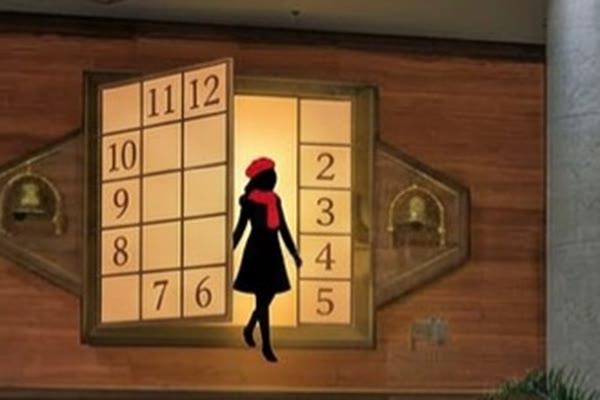
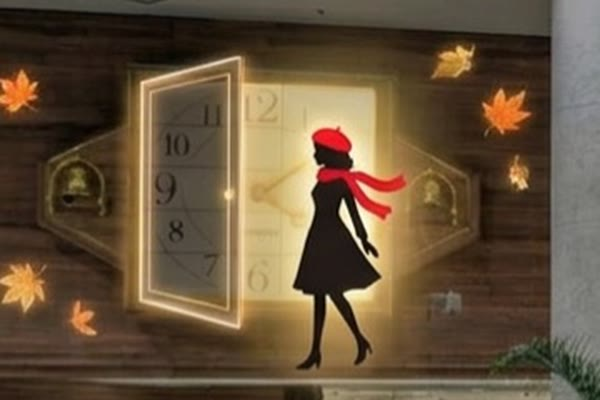
Projected-light door frame; all 14 concept deck pages
Option 01a: the door is now light over the real clock, which stays
faintly visible. The concept section gets a strip of all 14 deck
pages, and the viewer steps through the whole deck.

diff --git a/ja.html b/ja.html
@@ -399,6 +399,11 @@ footer .wrap{display:flex;flex-wrap:wrap;gap:12px 28px;justify-content:space-bet
 .deckpeek-btn{padding:0;border:1px solid var(--line);border-radius:6px;overflow:hidden;background:var(--hall);cursor:zoom-in;display:block;transition:border-color .15s,transform .15s}
 .deckpeek-btn:hover{border-color:var(--sogo);transform:translateY(-1px)}
 .deckpeek-btn img{display:block;width:100%;aspect-ratio:16/9;object-fit:cover}
+.deckall{list-style:none;margin:0;padding:0;display:grid;grid-template-columns:repeat(7,minmax(0,1fr));gap:12px}
+.deckall li{display:grid;gap:6px;align-content:start;font-size:12px;line-height:1.4;color:var(--fg-2)}
+.deckall b{font-family:var(--f-mono);font-weight:500;color:var(--sogo)}
+@media (max-width:1000px){.deckall{grid-template-columns:repeat(4,minmax(0,1fr))}}
+@media (max-width:560px){.deckall{grid-template-columns:repeat(2,minmax(0,1fr))}}
 .deckview{padding:0;border:0;border-radius:10px;background:var(--hall-2);color:var(--light);width:min(980px,calc(100vw - 32px));max-height:calc(100vh - 32px);overflow:auto}
 section img,.hero-photo img{cursor:zoom-in}
 button img,a img,.compare img,#photo img,dialog img{cursor:inherit}
@@ -708,7 +713,7 @@ html[lang="ja"] .concept-quote{font-family:var(--f-jp);font-weight:700}
         </dl>
       </div>
       <div class="opt-media" id="opt01-media">
-        <figure><img src="img/gen-o1-door.jpg" alt="Concept frame: the left three columns of the clock face swing open as one tall door, carrying the numbers 6 to 12, and a black silhouette of a woman in a red beret and red scarf stands in the warm doorway; both brass bells stay in place, autumn leaves along the band" loading="lazy"><figcaption>コンセプト · 正時、時計の扉が開く</figcaption></figure>
+        <figure><img src="img/gen-o1-door.jpg" alt="Concept frame: a door of projected light swings open over the left of the real clock face, with the real numbers and hands still faintly visible through the warm glow, and a black silhouette of a woman in a red beret and red scarf steps out; both brass bells stay in place" loading="lazy"><figcaption>コンセプト · 正時、時計の扉が開く</figcaption></figure>
         <figure><img src="img/gen-o1-gust.jpg" alt="Concept frame: she sits on the clock's edge in her red scarf while, along the band, a man in a mustard scarf fights his inside-out umbrella in a gust of autumn leaves" loading="lazy"><figcaption>コンセプト · 突風。彼は天気と格闘し、彼女は時計の縁で待つ</figcaption></figure>
         <figure><img src="img/gen-o1-together.jpg" alt="Concept frame: two solid black silhouettes, one in a red scarf and one in a mustard scarf, embrace inside the glowing clock face while red, gold and white paper leaves scatter across the clock wall and the band" loading="lazy"><figcaption>コンセプト · 二人で。時計の中で抱き合い、壁いっぱいに秋の紙吹雪</figcaption></figure>
         <figure><img src="img/realtime-clock.jpg" alt="Real Time: a person seen inside a large clock face, keeping time by hand" loading="lazy"><figcaption>参考：Real Time。時計の中で暮らす人</figcaption></figure>
@@ -793,7 +798,7 @@ html[lang="ja"] .concept-quote{font-family:var(--f-jp);font-weight:700}
       </div>
       <h4 class="cd-sub">扉が開いて、再会するまで <span>From the door opening to the reunion</span></h4>
       <ol class="sb">
-        <li><img src="img/sb-o1-1.jpg" data-full="img/gen-o1-door.jpg" alt="Storyboard 1: the left block of the clock face opens as a door and her silhouette, in a red beret and scarf, stands in the doorway" loading="lazy"><span class="sb-n">1</span><b>時計の扉が開く</b><span>正時、女性のシルエットが現れ、針を見上げて待つ。コートやスカーフなど1〜2点だけ色を残す。</span></li>
+        <li><img src="img/sb-o1-1.jpg" data-full="img/gen-o1-door.jpg" alt="Storyboard 1: a door of projected light opens over the real clock face and her silhouette, in a red beret and scarf, steps out" loading="lazy"><span class="sb-n">1</span><b>時計の扉が開く</b><span>正時、女性のシルエットが現れ、針を見上げて待つ。コートやスカーフなど1〜2点だけ色を残す。</span></li>
         <li><img src="img/sb-o1-2.jpg" data-full="img/gen-o1-s2.jpg" alt="Storyboard 2: a gust of red and gold leaves blows along the band and his silhouette in a mustard scarf tumbles head over heels in the wind" loading="lazy"><span class="sb-n">2</span><b>秋風と紅葉</b><span>強い風に紅葉がロビー中を舞い、男性が風に転がされて登場。</span></li>
         <li><img src="img/sb-o1-3.jpg" data-full="img/gen-o1-s3.jpg" alt="Storyboard 3: his silhouette stands up, dusts off his coat and stares at his wristwatch, an exclamation mark above his head" loading="lazy"><span class="sb-n">3</span><b>遅刻に気づく</b><span>ほこりを払い、時計を見て、逆風の中を急ぐ。</span></li>
         <li><img src="img/sb-o1-4.jpg" data-full="img/gen-o1-gust.jpg" alt="Storyboard 4: his silhouette in a mustard scarf fights an inside-out umbrella under rain lines and a small lightning bolt" loading="lazy"><span class="sb-n">4</span><b>雨と雷</b><span>天気はさらに荒れ、お決まりの傘との格闘。</span></li>
@@ -825,10 +830,10 @@ html[lang="ja"] .concept-quote{font-family:var(--f-jp);font-weight:700}
         <p class="concept-belief">大事な人にとって誇れる自分になるために、誰よりも、自分で自分が誇らしいと思えるために。</p>
         <p class="concept-told">表現は「時候の挨拶」。手書きの季節の手紙が時計から旅立ち、誰かのもとへ届きます。</p>
         <div class="deckpeek">
-          <p class="deckpeek-cap">「誇れる、私。」をもっと詳しく：コンセプト案の該当ページ（2枚）。</p>
+          <p class="deckpeek-cap">「誇れる、私。」をもっと詳しく：コンセプト案の8・9ページ。クリックで拡大し、全14ページを順に見られます。</p>
           <div class="deckpeek-row">
-            <button type="button" class="deckpeek-btn" data-deck="0" aria-label="8ページを拡大：案02 コンセプト"><img src="img/deck-o2-08.png" alt="Deck page 8: 案02 コンセプト, I am proud to be who I am" loading="lazy"></button>
-            <button type="button" class="deckpeek-btn" data-deck="1" aria-label="9ページを拡大：コンセプトに込める想い"><img src="img/deck-o2-09.png" alt="Deck page 9: 誇れる、私。 with three points and the closing line" loading="lazy"></button>
+            <button type="button" class="deckpeek-btn" data-deck="7" aria-label="8ページを拡大：案02 コンセプト"><img src="img/deck-08.png" alt="Deck page 8: 案02 コンセプト, I am proud to be who I am" loading="lazy"></button>
+            <button type="button" class="deckpeek-btn" data-deck="8" aria-label="9ページを拡大：コンセプトに込める想い"><img src="img/deck-09.png" alt="Deck page 9: 誇れる、私。 with three points and the closing line" loading="lazy"></button>
           </div>
         </div>
         <a class="concept-link" href="#opt-02">ストーリーとフレームを見る</a>
@@ -857,6 +862,23 @@ html[lang="ja"] .concept-quote{font-family:var(--f-jp);font-weight:700}
       <li><b>現地の夜間テスト</b><span>大理石の上での色とコントラストを確認。</span></li>
       <li><b>ムードボード・スタイルフレーム</b><span>選んだコンセプトを目に見える形に。</span></li>
       <li><b>制作手法・予算</b><span>手法、AIの活用、予算、技術面はコンセプト決定後に。</span></li>
+    </ol>
+    <h3 class="cd-h">コンセプト案 全14ページ</h3>
+    <ol class="deckall">
+        <li><button type="button" class="deckpeek-btn" data-deck="0" aria-label="1ページを拡大"><img src="img/deck-01.png" alt="1ページ：表紙" loading="lazy"></button><span><b>01</b> 表紙</span></li>
+        <li><button type="button" class="deckpeek-btn" data-deck="1" aria-label="2ページを拡大"><img src="img/deck-02.png" alt="2ページ：出発点" loading="lazy"></button><span><b>02</b> 出発点</span></li>
+        <li><button type="button" class="deckpeek-btn" data-deck="2" aria-label="3ページを拡大"><img src="img/deck-03.png" alt="3ページ：場所と条件" loading="lazy"></button><span><b>03</b> 場所と条件</span></li>
+        <li><button type="button" class="deckpeek-btn" data-deck="3" aria-label="4ページを拡大"><img src="img/deck-04.png" alt="4ページ：足りないのは、コンセプト" loading="lazy"></button><span><b>04</b> 足りないのは、コンセプト</span></li>
+        <li><button type="button" class="deckpeek-btn" data-deck="4" aria-label="5ページを拡大"><img src="img/deck-05.png" alt="5ページ：案01 · コンセプト" loading="lazy"></button><span><b>05</b> 案01 · コンセプト</span></li>
+        <li><button type="button" class="deckpeek-btn" data-deck="5" aria-label="6ページを拡大"><img src="img/deck-06.png" alt="6ページ：案01 · ストーリー（秋編）" loading="lazy"></button><span><b>06</b> 案01 · ストーリー（秋編）</span></li>
+        <li><button type="button" class="deckpeek-btn" data-deck="6" aria-label="7ページを拡大"><img src="img/deck-07.png" alt="7ページ：案01 · 季節展開" loading="lazy"></button><span><b>07</b> 案01 · 季節展開</span></li>
+        <li><button type="button" class="deckpeek-btn" data-deck="7" aria-label="8ページを拡大"><img src="img/deck-08.png" alt="8ページ：案02 · コンセプト" loading="lazy"></button><span><b>08</b> 案02 · コンセプト</span></li>
+        <li><button type="button" class="deckpeek-btn" data-deck="8" aria-label="9ページを拡大"><img src="img/deck-09.png" alt="9ページ：案02 · コンセプトに込める想い" loading="lazy"></button><span><b>09</b> 案02 · コンセプトに込める想い</span></li>
+        <li><button type="button" class="deckpeek-btn" data-deck="9" aria-label="10ページを拡大"><img src="img/deck-10.png" alt="10ページ：案02 · 時候の挨拶" loading="lazy"></button><span><b>10</b> 案02 · 時候の挨拶</span></li>
+        <li><button type="button" class="deckpeek-btn" data-deck="10" aria-label="11ページを拡大"><img src="img/deck-11.png" alt="11ページ：案02 · ストーリー" loading="lazy"></button><span><b>11</b> 案02 · ストーリー</span></li>
+        <li><button type="button" class="deckpeek-btn" data-deck="11" aria-label="12ページを拡大"><img src="img/deck-12.png" alt="12ページ：案02 · なぜ響くのか" loading="lazy"></button><span><b>12</b> 案02 · なぜ響くのか</span></li>
+        <li><button type="button" class="deckpeek-btn" data-deck="12" aria-label="13ページを拡大"><img src="img/deck-13.png" alt="13ページ：参考 · ほかに検討した3つの方向性" loading="lazy"></button><span><b>13</b> 参考 · ほかに検討した3つの方向性</span></li>
+        <li><button type="button" class="deckpeek-btn" data-deck="13" aria-label="14ページを拡大"><img src="img/deck-14.png" alt="14ページ：次のステップ" loading="lazy"></button><span><b>14</b> 次のステップ</span></li>
     </ol>
     <p class="cd-src">出典：そごう横浜 ロビー時計 プロジェクションマッピング コンセプト案（Wild Tame、2026年11月 ドラフト）</p>
   </div>
@@ -932,7 +954,7 @@ html[lang="ja"] .concept-quote{font-family:var(--f-jp);font-weight:700}
 </footer>
 
 <dialog class="deckview" id="lightbox" aria-label="拡大画像">
-  <figure class="deckview-fig"><img id="lbImg" src="img/deck-o2-08.png" alt=""><figcaption id="lbCap"></figcaption></figure>
+  <figure class="deckview-fig"><img id="lbImg" src="img/deck-08.png" alt=""><figcaption id="lbCap"></figcaption></figure>
   <div class="deckview-nav">
     <button type="button" id="lbPrev">← 前へ</button>
     <span id="lbCount" class="mono">1 / 2</span>
@@ -1535,8 +1557,20 @@ setDir(dir);
   const img=document.getElementById('lbImg'), cap=document.getElementById('lbCap'), cnt=document.getElementById('lbCount');
   const prev=document.getElementById('lbPrev'), next=document.getElementById('lbNext');
   const DECK=[
-    {src:'img/deck-o2-08.png',cap:'コンセプト案 8ページ · 案02 コンセプト：I am proud to be who I am'},
-    {src:'img/deck-o2-09.png',cap:'コンセプト案 9ページ · コンセプトに込める想い：誇れる、私。'}
+    {src:'img/deck-01.png',cap:'コンセプト案 1ページ · 表紙'},
+    {src:'img/deck-02.png',cap:'コンセプト案 2ページ · 出発点：思い出は、未来になる'},
+    {src:'img/deck-03.png',cap:'コンセプト案 3ページ · 場所と条件'},
+    {src:'img/deck-04.png',cap:'コンセプト案 4ページ · 足りないのは、コンセプト'},
+    {src:'img/deck-05.png',cap:'コンセプト案 5ページ · 案01 コンセプト：出会い（一期一会）'},
+    {src:'img/deck-06.png',cap:'コンセプト案 6ページ · 案01 ストーリー（秋編）'},
+    {src:'img/deck-07.png',cap:'コンセプト案 7ページ · 案01 季節展開'},
+    {src:'img/deck-08.png',cap:'コンセプト案 8ページ · 案02 コンセプト：I am proud to be who I am'},
+    {src:'img/deck-09.png',cap:'コンセプト案 9ページ · 案02 コンセプトに込める想い：誇れる、私。'},
+    {src:'img/deck-10.png',cap:'コンセプト案 10ページ · 案02 時候の挨拶'},
+    {src:'img/deck-11.png',cap:'コンセプト案 11ページ · 案02 ストーリー'},
+    {src:'img/deck-12.png',cap:'コンセプト案 12ページ · 案02 なぜ響くのか'},
+    {src:'img/deck-13.png',cap:'コンセプト案 13ページ · 参考：ほかに検討した3つの方向性'},
+    {src:'img/deck-14.png',cap:'コンセプト案 14ページ · 次のステップ'}
   ];
   const SKIP='button,a,.compare,#photo,.sim,dialog';
   let list=[], i=0;

diff --git a/index.html b/index.html
@@ -399,6 +399,11 @@ footer .wrap{display:flex;flex-wrap:wrap;gap:12px 28px;justify-content:space-bet
 .deckpeek-btn{padding:0;border:1px solid var(--line);border-radius:6px;overflow:hidden;background:var(--hall);cursor:zoom-in;display:block;transition:border-color .15s,transform .15s}
 .deckpeek-btn:hover{border-color:var(--sogo);transform:translateY(-1px)}
 .deckpeek-btn img{display:block;width:100%;aspect-ratio:16/9;object-fit:cover}
+.deckall{list-style:none;margin:0;padding:0;display:grid;grid-template-columns:repeat(7,minmax(0,1fr));gap:12px}
+.deckall li{display:grid;gap:6px;align-content:start;font-size:12px;line-height:1.4;color:var(--fg-2)}
+.deckall b{font-family:var(--f-mono);font-weight:500;color:var(--sogo)}
+@media (max-width:1000px){.deckall{grid-template-columns:repeat(4,minmax(0,1fr))}}
+@media (max-width:560px){.deckall{grid-template-columns:repeat(2,minmax(0,1fr))}}
 .deckview{padding:0;border:0;border-radius:10px;background:var(--hall-2);color:var(--light);width:min(980px,calc(100vw - 32px));max-height:calc(100vh - 32px);overflow:auto}
 section img,.hero-photo img{cursor:zoom-in}
 button img,a img,.compare img,#photo img,dialog img{cursor:inherit}
@@ -708,7 +713,7 @@ html[lang="ja"] .concept-quote{font-family:var(--f-jp);font-weight:700}
         </dl>
       </div>
       <div class="opt-media" id="opt01-media">
-        <figure><img src="img/gen-o1-door.jpg" alt="Concept frame: the left three columns of the clock face swing open as one tall door, carrying the numbers 6 to 12, and a black silhouette of a woman in a red beret and red scarf stands in the warm doorway; both brass bells stay in place, autumn leaves along the band" loading="lazy"><figcaption>Concept frame · On the hour: the door in the clock opens</figcaption></figure>
+        <figure><img src="img/gen-o1-door.jpg" alt="Concept frame: a door of projected light swings open over the left of the real clock face, with the real numbers and hands still faintly visible through the warm glow, and a black silhouette of a woman in a red beret and red scarf steps out; both brass bells stay in place" loading="lazy"><figcaption>Concept frame · On the hour: the door in the clock opens</figcaption></figure>
         <figure><img src="img/gen-o1-gust.jpg" alt="Concept frame: she sits on the clock's edge in her red scarf while, along the band, a man in a mustard scarf fights his inside-out umbrella in a gust of autumn leaves" loading="lazy"><figcaption>Concept frame · The gust: he fights the weather, she waits on the clock’s edge</figcaption></figure>
         <figure><img src="img/gen-o1-together.jpg" alt="Concept frame: two solid black silhouettes, one in a red scarf and one in a mustard scarf, embrace inside the glowing clock face while red, gold and white paper leaves scatter across the clock wall and the band" loading="lazy"><figcaption>Concept frame · Together: they embrace in the clock as autumn confetti fills the wall</figcaption></figure>
         <figure><img src="img/realtime-clock.jpg" alt="Real Time: a person seen inside a large clock face, keeping time by hand" loading="lazy"><figcaption>Reference: Real Time, a person living inside the clock</figcaption></figure>
@@ -793,7 +798,7 @@ html[lang="ja"] .concept-quote{font-family:var(--f-jp);font-weight:700}
       </div>
       <h4 class="cd-sub">From the door opening to the reunion <span>扉が開いて、再会するまで</span></h4>
       <ol class="sb">
-        <li><img src="img/sb-o1-1.jpg" data-full="img/gen-o1-door.jpg" alt="Storyboard 1: the left block of the clock face opens as a door and her silhouette, in a red beret and scarf, stands in the doorway" loading="lazy"><span class="sb-n">1</span><b>The clock door opens</b><span>On the hour, a woman’s silhouette appears and looks up at the hands, waiting. Only one or two items, a coat or a scarf, keep their colour.</span></li>
+        <li><img src="img/sb-o1-1.jpg" data-full="img/gen-o1-door.jpg" alt="Storyboard 1: a door of projected light opens over the real clock face and her silhouette, in a red beret and scarf, steps out" loading="lazy"><span class="sb-n">1</span><b>The clock door opens</b><span>On the hour, a woman’s silhouette appears and looks up at the hands, waiting. Only one or two items, a coat or a scarf, keep their colour.</span></li>
         <li><img src="img/sb-o1-2.jpg" data-full="img/gen-o1-s2.jpg" alt="Storyboard 2: a gust of red and gold leaves blows along the band and his silhouette in a mustard scarf tumbles head over heels in the wind" loading="lazy"><span class="sb-n">2</span><b>Autumn wind and red leaves</b><span>A strong wind sends red leaves across the whole lobby, and a man tumbles in, rolled along by the gust.</span></li>
         <li><img src="img/sb-o1-3.jpg" data-full="img/gen-o1-s3.jpg" alt="Storyboard 3: his silhouette stands up, dusts off his coat and stares at his wristwatch, an exclamation mark above his head" loading="lazy"><span class="sb-n">3</span><b>He realises he’s late</b><span>He dusts himself off, checks the clock and hurries on into the headwind.</span></li>
         <li><img src="img/sb-o1-4.jpg" data-full="img/gen-o1-gust.jpg" alt="Storyboard 4: his silhouette in a mustard scarf fights an inside-out umbrella under rain lines and a small lightning bolt" loading="lazy"><span class="sb-n">4</span><b>Rain and lightning</b><span>The weather turns worse, and the inevitable fight with his umbrella begins.</span></li>
@@ -825,10 +830,10 @@ html[lang="ja"] .concept-quote{font-family:var(--f-jp);font-weight:700}
         <p class="concept-belief">To be someone the people who matter to you can be proud of, and, more than anyone, to feel proud of yourself.</p>
         <p class="concept-told">Told through 時候の挨拶: a handwritten seasonal letter that leaves the clock to reach someone.</p>
         <div class="deckpeek">
-          <p class="deckpeek-cap">More on “proud to be me”: the two pages from the concept deck.</p>
+          <p class="deckpeek-cap">More on “proud to be me”: pages 8 and 9 of the concept deck. Click to enlarge, then step through all 14 pages.</p>
           <div class="deckpeek-row">
-            <button type="button" class="deckpeek-btn" data-deck="0" aria-label="Enlarge deck page 8: the Option 02 concept"><img src="img/deck-o2-08.png" alt="Deck page 8: 案02 コンセプト, I am proud to be who I am" loading="lazy"></button>
-            <button type="button" class="deckpeek-btn" data-deck="1" aria-label="Enlarge deck page 9: the thoughts behind the concept"><img src="img/deck-o2-09.png" alt="Deck page 9: 誇れる、私。 with three points and the closing line" loading="lazy"></button>
+            <button type="button" class="deckpeek-btn" data-deck="7" aria-label="Enlarge deck page 8: the Option 02 concept"><img src="img/deck-08.png" alt="Deck page 8: 案02 コンセプト, I am proud to be who I am" loading="lazy"></button>
+            <button type="button" class="deckpeek-btn" data-deck="8" aria-label="Enlarge deck page 9: the thoughts behind the concept"><img src="img/deck-09.png" alt="Deck page 9: 誇れる、私。 with three points and the closing line" loading="lazy"></button>
           </div>
         </div>
         <a class="concept-link" href="#opt-02">See the story and frames</a>
@@ -857,6 +862,23 @@ html[lang="ja"] .concept-quote{font-family:var(--f-jp);font-weight:700}
       <li><b>Night test on site</b><span>Check colour and contrast on the marble.</span></li>
       <li><b>Mood boards and style frames</b><span>Make the chosen concept visible.</span></li>
       <li><b>Method and budget</b><span>Production method, use of AI, budget and technical detail, once the concept is chosen.</span></li>
+    </ol>
+    <h3 class="cd-h">The concept deck, all 14 pages</h3>
+    <ol class="deckall">
+        <li><button type="button" class="deckpeek-btn" data-deck="0" aria-label="Enlarge deck page 1"><img src="img/deck-01.png" alt="Deck page 1: Cover" loading="lazy"></button><span><b>01</b> Cover</span></li>
+        <li><button type="button" class="deckpeek-btn" data-deck="1" aria-label="Enlarge deck page 2"><img src="img/deck-02.png" alt="Deck page 2: Starting point" loading="lazy"></button><span><b>02</b> Starting point</span></li>
+        <li><button type="button" class="deckpeek-btn" data-deck="2" aria-label="Enlarge deck page 3"><img src="img/deck-03.png" alt="Deck page 3: Site and conditions" loading="lazy"></button><span><b>03</b> Site and conditions</span></li>
+        <li><button type="button" class="deckpeek-btn" data-deck="3" aria-label="Enlarge deck page 4"><img src="img/deck-04.png" alt="Deck page 4: What is missing is a concept" loading="lazy"></button><span><b>04</b> What is missing is a concept</span></li>
+        <li><button type="button" class="deckpeek-btn" data-deck="4" aria-label="Enlarge deck page 5"><img src="img/deck-05.png" alt="Deck page 5: Option 01 · Concept" loading="lazy"></button><span><b>05</b> Option 01 · Concept</span></li>
+        <li><button type="button" class="deckpeek-btn" data-deck="5" aria-label="Enlarge deck page 6"><img src="img/deck-06.png" alt="Deck page 6: Option 01 · Story, autumn" loading="lazy"></button><span><b>06</b> Option 01 · Story, autumn</span></li>
+        <li><button type="button" class="deckpeek-btn" data-deck="6" aria-label="Enlarge deck page 7"><img src="img/deck-07.png" alt="Deck page 7: Option 01 · Seasons" loading="lazy"></button><span><b>07</b> Option 01 · Seasons</span></li>
+        <li><button type="button" class="deckpeek-btn" data-deck="7" aria-label="Enlarge deck page 8"><img src="img/deck-08.png" alt="Deck page 8: Option 02 · Concept" loading="lazy"></button><span><b>08</b> Option 02 · Concept</span></li>
+        <li><button type="button" class="deckpeek-btn" data-deck="8" aria-label="Enlarge deck page 9"><img src="img/deck-09.png" alt="Deck page 9: Option 02 · The thoughts behind it" loading="lazy"></button><span><b>09</b> Option 02 · The thoughts behind it</span></li>
+        <li><button type="button" class="deckpeek-btn" data-deck="9" aria-label="Enlarge deck page 10"><img src="img/deck-10.png" alt="Deck page 10: Option 02 · Seasonal greetings" loading="lazy"></button><span><b>10</b> Option 02 · Seasonal greetings</span></li>
+        <li><button type="button" class="deckpeek-btn" data-deck="10" aria-label="Enlarge deck page 11"><img src="img/deck-11.png" alt="Deck page 11: Option 02 · Story" loading="lazy"></button><span><b>11</b> Option 02 · Story</span></li>
+        <li><button type="button" class="deckpeek-btn" data-deck="11" aria-label="Enlarge deck page 12"><img src="img/deck-12.png" alt="Deck page 12: Option 02 · Why it works" loading="lazy"></button><span><b>12</b> Option 02 · Why it works</span></li>
+        <li><button type="button" class="deckpeek-btn" data-deck="12" aria-label="Enlarge deck page 13"><img src="img/deck-13.png" alt="Deck page 13: Reference · Three other directions" loading="lazy"></button><span><b>13</b> Reference · Three other directions</span></li>
+        <li><button type="button" class="deckpeek-btn" data-deck="13" aria-label="Enlarge deck page 14"><img src="img/deck-14.png" alt="Deck page 14: Next steps" loading="lazy"></button><span><b>14</b> Next steps</span></li>
     </ol>
     <p class="cd-src">Source: そごう横浜 ロビー時計 プロジェクションマッピング コンセプト案 (Wild Tame, November 2026 draft).</p>
   </div>
@@ -932,7 +954,7 @@ html[lang="ja"] .concept-quote{font-family:var(--f-jp);font-weight:700}
 </footer>
 
 <dialog class="deckview" id="lightbox" aria-label="Enlarged image">
-  <figure class="deckview-fig"><img id="lbImg" src="img/deck-o2-08.png" alt=""><figcaption id="lbCap"></figcaption></figure>
+  <figure class="deckview-fig"><img id="lbImg" src="img/deck-08.png" alt=""><figcaption id="lbCap"></figcaption></figure>
   <div class="deckview-nav">
     <button type="button" id="lbPrev">← Previous</button>
     <span id="lbCount" class="mono">1 / 2</span>
@@ -1535,8 +1557,20 @@ setDir(dir);
   const img=document.getElementById('lbImg'), cap=document.getElementById('lbCap'), cnt=document.getElementById('lbCount');
   const prev=document.getElementById('lbPrev'), next=document.getElementById('lbNext');
   const DECK=[
-    {src:'img/deck-o2-08.png',cap:'Concept deck, page 8 · Option 02 concept: I am proud to be who I am'},
-    {src:'img/deck-o2-09.png',cap:'Concept deck, page 9 · The thoughts behind it: 誇れる、私。'}
+    {src:'img/deck-01.png',cap:'Concept deck, page 1 · Cover'},
+    {src:'img/deck-02.png',cap:'Concept deck, page 2 · Starting point: 思い出は、未来になる'},
+    {src:'img/deck-03.png',cap:'Concept deck, page 3 · Site and conditions'},
+    {src:'img/deck-04.png',cap:'Concept deck, page 4 · What is missing is a concept'},
+    {src:'img/deck-05.png',cap:'Concept deck, page 5 · Option 01 concept: Encounter (一期一会)'},
+    {src:'img/deck-06.png',cap:'Concept deck, page 6 · Option 01 story, autumn edition'},
+    {src:'img/deck-07.png',cap:'Concept deck, page 7 · Option 01 seasons'},
+    {src:'img/deck-08.png',cap:'Concept deck, page 8 · Option 02 concept: I am proud to be who I am'},
+    {src:'img/deck-09.png',cap:'Concept deck, page 9 · The thoughts behind it: 誇れる、私。'},
+    {src:'img/deck-10.png',cap:'Concept deck, page 10 · Option 02: seasonal greetings'},
+    {src:'img/deck-11.png',cap:'Concept deck, page 11 · Option 02 story'},
+    {src:'img/deck-12.png',cap:'Concept deck, page 12 · Option 02: why it works'},
+    {src:'img/deck-13.png',cap:'Concept deck, page 13 · Reference: three other directions'},
+    {src:'img/deck-14.png',cap:'Concept deck, page 14 · Next steps'}
   ];
   const SKIP='button,a,.compare,#photo,.sim,dialog';
   let list=[], i=0;

diff --git a/src/page.html b/src/page.html
@@ -392,6 +392,11 @@ footer .wrap{display:flex;flex-wrap:wrap;gap:12px 28px;justify-content:space-bet
 .deckpeek-btn{padding:0;border:1px solid var(--line);border-radius:6px;overflow:hidden;background:var(--hall);cursor:zoom-in;display:block;transition:border-color .15s,transform .15s}
 .deckpeek-btn:hover{border-color:var(--sogo);transform:translateY(-1px)}
 .deckpeek-btn img{display:block;width:100%;aspect-ratio:16/9;object-fit:cover}
+.deckall{list-style:none;margin:0;padding:0;display:grid;grid-template-columns:repeat(7,minmax(0,1fr));gap:12px}
+.deckall li{display:grid;gap:6px;align-content:start;font-size:12px;line-height:1.4;color:var(--fg-2)}
+.deckall b{font-family:var(--f-mono);font-weight:500;color:var(--sogo)}
+@media (max-width:1000px){.deckall{grid-template-columns:repeat(4,minmax(0,1fr))}}
+@media (max-width:560px){.deckall{grid-template-columns:repeat(2,minmax(0,1fr))}}
 .deckview{padding:0;border:0;border-radius:10px;background:var(--hall-2);color:var(--light);width:min(980px,calc(100vw - 32px));max-height:calc(100vh - 32px);overflow:auto}
 section img,.hero-photo img{cursor:zoom-in}
 button img,a img,.compare img,#photo img,dialog img{cursor:inherit}
@@ -699,7 +704,7 @@ html[lang="ja"] .concept-quote{font-family:var(--f-jp);font-weight:700}
         </dl>
       </div>
       <div class="opt-media" id="opt01-media">
-        <figure><img src="img/gen-o1-door.jpg" alt="Concept frame: the left three columns of the clock face swing open as one tall door, carrying the numbers 6 to 12, and a black silhouette of a woman in a red beret and red scarf stands in the warm doorway; both brass bells stay in place, autumn leaves along the band" loading="lazy"><figcaption>Concept frame · On the hour: the door in the clock opens</figcaption></figure>
+        <figure><img src="img/gen-o1-door.jpg" alt="Concept frame: a door of projected light swings open over the left of the real clock face, with the real numbers and hands still faintly visible through the warm glow, and a black silhouette of a woman in a red beret and red scarf steps out; both brass bells stay in place" loading="lazy"><figcaption>Concept frame · On the hour: the door in the clock opens</figcaption></figure>
         <figure><img src="img/gen-o1-gust.jpg" alt="Concept frame: she sits on the clock's edge in her red scarf while, along the band, a man in a mustard scarf fights his inside-out umbrella in a gust of autumn leaves" loading="lazy"><figcaption>Concept frame · The gust: he fights the weather, she waits on the clock’s edge</figcaption></figure>
         <figure><img src="img/gen-o1-together.jpg" alt="Concept frame: two solid black silhouettes, one in a red scarf and one in a mustard scarf, embrace inside the glowing clock face while red, gold and white paper leaves scatter across the clock wall and the band" loading="lazy"><figcaption>Concept frame · Together: they embrace in the clock as autumn confetti fills the wall</figcaption></figure>
         <figure><img src="img/realtime-clock.jpg" alt="Real Time: a person seen inside a large clock face, keeping time by hand" loading="lazy"><figcaption>Reference: Real Time, a person living inside the clock</figcaption></figure>
@@ -784,7 +789,7 @@ html[lang="ja"] .concept-quote{font-family:var(--f-jp);font-weight:700}
       </div>
       <h4 class="cd-sub">From the door opening to the reunion <span>扉が開いて、再会するまで</span></h4>
       <ol class="sb">
-        <li><img src="img/sb-o1-1.jpg" data-full="img/gen-o1-door.jpg" alt="Storyboard 1: the left block of the clock face opens as a door and her silhouette, in a red beret and scarf, stands in the doorway" loading="lazy"><span class="sb-n">1</span><b>The clock door opens</b><span>On the hour, a woman’s silhouette appears and looks up at the hands, waiting. Only one or two items, a coat or a scarf, keep their colour.</span></li>
+        <li><img src="img/sb-o1-1.jpg" data-full="img/gen-o1-door.jpg" alt="Storyboard 1: a door of projected light opens over the real clock face and her silhouette, in a red beret and scarf, steps out" loading="lazy"><span class="sb-n">1</span><b>The clock door opens</b><span>On the hour, a woman’s silhouette appears and looks up at the hands, waiting. Only one or two items, a coat or a scarf, keep their colour.</span></li>
         <li><img src="img/sb-o1-2.jpg" data-full="img/gen-o1-s2.jpg" alt="Storyboard 2: a gust of red and gold leaves blows along the band and his silhouette in a mustard scarf tumbles head over heels in the wind" loading="lazy"><span class="sb-n">2</span><b>Autumn wind and red leaves</b><span>A strong wind sends red leaves across the whole lobby, and a man tumbles in, rolled along by the gust.</span></li>
         <li><img src="img/sb-o1-3.jpg" data-full="img/gen-o1-s3.jpg" alt="Storyboard 3: his silhouette stands up, dusts off his coat and stares at his wristwatch, an exclamation mark above his head" loading="lazy"><span class="sb-n">3</span><b>He realises he’s late</b><span>He dusts himself off, checks the clock and hurries on into the headwind.</span></li>
         <li><img src="img/sb-o1-4.jpg" data-full="img/gen-o1-gust.jpg" alt="Storyboard 4: his silhouette in a mustard scarf fights an inside-out umbrella under rain lines and a small lightning bolt" loading="lazy"><span class="sb-n">4</span><b>Rain and lightning</b><span>The weather turns worse, and the inevitable fight with his umbrella begins.</span></li>
@@ -816,10 +821,10 @@ html[lang="ja"] .concept-quote{font-family:var(--f-jp);font-weight:700}
         <p class="concept-belief">To be someone the people who matter to you can be proud of, and, more than anyone, to feel proud of yourself.</p>
         <p class="concept-told">Told through 時候の挨拶: a handwritten seasonal letter that leaves the clock to reach someone.</p>
         <div class="deckpeek">
-          <p class="deckpeek-cap">More on “proud to be me”: the two pages from the concept deck.</p>
+          <p class="deckpeek-cap">More on “proud to be me”: pages 8 and 9 of the concept deck. Click to enlarge, then step through all 14 pages.</p>
           <div class="deckpeek-row">
-            <button type="button" class="deckpeek-btn" data-deck="0" aria-label="Enlarge deck page 8: the Option 02 concept"><img src="img/deck-o2-08.png" alt="Deck page 8: 案02 コンセプト, I am proud to be who I am" loading="lazy"></button>
-            <button type="button" class="deckpeek-btn" data-deck="1" aria-label="Enlarge deck page 9: the thoughts behind the concept"><img src="img/deck-o2-09.png" alt="Deck page 9: 誇れる、私。 with three points and the closing line" loading="lazy"></button>
+            <button type="button" class="deckpeek-btn" data-deck="7" aria-label="Enlarge deck page 8: the Option 02 concept"><img src="img/deck-08.png" alt="Deck page 8: 案02 コンセプト, I am proud to be who I am" loading="lazy"></button>
+            <button type="button" class="deckpeek-btn" data-deck="8" aria-label="Enlarge deck page 9: the thoughts behind the concept"><img src="img/deck-09.png" alt="Deck page 9: 誇れる、私。 with three points and the closing line" loading="lazy"></button>
           </div>
         </div>
         <a class="concept-link" href="#opt-02">See the story and frames</a>
@@ -848,6 +853,23 @@ html[lang="ja"] .concept-quote{font-family:var(--f-jp);font-weight:700}
       <li><b>Night test on site</b><span>Check colour and contrast on the marble.</span></li>
       <li><b>Mood boards and style frames</b><span>Make the chosen concept visible.</span></li>
       <li><b>Method and budget</b><span>Production method, use of AI, budget and technical detail, once the concept is chosen.</span></li>
+    </ol>
+    <h3 class="cd-h">The concept deck, all 14 pages</h3>
+    <ol class="deckall">
+        <li><button type="button" class="deckpeek-btn" data-deck="0" aria-label="Enlarge deck page 1"><img src="img/deck-01.png" alt="Deck page 1: Cover" loading="lazy"></button><span><b>01</b> Cover</span></li>
+        <li><button type="button" class="deckpeek-btn" data-deck="1" aria-label="Enlarge deck page 2"><img src="img/deck-02.png" alt="Deck page 2: Starting point" loading="lazy"></button><span><b>02</b> Starting point</span></li>
+        <li><button type="button" class="deckpeek-btn" data-deck="2" aria-label="Enlarge deck page 3"><img src="img/deck-03.png" alt="Deck page 3: Site and conditions" loading="lazy"></button><span><b>03</b> Site and conditions</span></li>
+        <li><button type="button" class="deckpeek-btn" data-deck="3" aria-label="Enlarge deck page 4"><img src="img/deck-04.png" alt="Deck page 4: What is missing is a concept" loading="lazy"></button><span><b>04</b> What is missing is a concept</span></li>
+        <li><button type="button" class="deckpeek-btn" data-deck="4" aria-label="Enlarge deck page 5"><img src="img/deck-05.png" alt="Deck page 5: Option 01 · Concept" loading="lazy"></button><span><b>05</b> Option 01 · Concept</span></li>
+        <li><button type="button" class="deckpeek-btn" data-deck="5" aria-label="Enlarge deck page 6"><img src="img/deck-06.png" alt="Deck page 6: Option 01 · Story, autumn" loading="lazy"></button><span><b>06</b> Option 01 · Story, autumn</span></li>
+        <li><button type="button" class="deckpeek-btn" data-deck="6" aria-label="Enlarge deck page 7"><img src="img/deck-07.png" alt="Deck page 7: Option 01 · Seasons" loading="lazy"></button><span><b>07</b> Option 01 · Seasons</span></li>
+        <li><button type="button" class="deckpeek-btn" data-deck="7" aria-label="Enlarge deck page 8"><img src="img/deck-08.png" alt="Deck page 8: Option 02 · Concept" loading="lazy"></button><span><b>08</b> Option 02 · Concept</span></li>
+        <li><button type="button" class="deckpeek-btn" data-deck="8" aria-label="Enlarge deck page 9"><img src="img/deck-09.png" alt="Deck page 9: Option 02 · The thoughts behind it" loading="lazy"></button><span><b>09</b> Option 02 · The thoughts behind it</span></li>
+        <li><button type="button" class="deckpeek-btn" data-deck="9" aria-label="Enlarge deck page 10"><img src="img/deck-10.png" alt="Deck page 10: Option 02 · Seasonal greetings" loading="lazy"></button><span><b>10</b> Option 02 · Seasonal greetings</span></li>
+        <li><button type="button" class="deckpeek-btn" data-deck="10" aria-label="Enlarge deck page 11"><img src="img/deck-11.png" alt="Deck page 11: Option 02 · Story" loading="lazy"></button><span><b>11</b> Option 02 · Story</span></li>
+        <li><button type="button" class="deckpeek-btn" data-deck="11" aria-label="Enlarge deck page 12"><img src="img/deck-12.png" alt="Deck page 12: Option 02 · Why it works" loading="lazy"></button><span><b>12</b> Option 02 · Why it works</span></li>
+        <li><button type="button" class="deckpeek-btn" data-deck="12" aria-label="Enlarge deck page 13"><img src="img/deck-13.png" alt="Deck page 13: Reference · Three other directions" loading="lazy"></button><span><b>13</b> Reference · Three other directions</span></li>
+        <li><button type="button" class="deckpeek-btn" data-deck="13" aria-label="Enlarge deck page 14"><img src="img/deck-14.png" alt="Deck page 14: Next steps" loading="lazy"></button><span><b>14</b> Next steps</span></li>
     </ol>
     <p class="cd-src">Source: そごう横浜 ロビー時計 プロジェクションマッピング コンセプト案 (Wild Tame, November 2026 draft).</p>
   </div>
@@ -923,7 +945,7 @@ html[lang="ja"] .concept-quote{font-family:var(--f-jp);font-weight:700}
 </footer>
 
 <dialog class="deckview" id="lightbox" aria-label="Enlarged image">
-  <figure class="deckview-fig"><img id="lbImg" src="img/deck-o2-08.png" alt=""><figcaption id="lbCap"></figcaption></figure>
+  <figure class="deckview-fig"><img id="lbImg" src="img/deck-08.png" alt=""><figcaption id="lbCap"></figcaption></figure>
   <div class="deckview-nav">
     <button type="button" id="lbPrev">← Previous</button>
     <span id="lbCount" class="mono">1 / 2</span>
@@ -1526,8 +1548,20 @@ setDir(dir);
   const img=document.getElementById('lbImg'), cap=document.getElementById('lbCap'), cnt=document.getElementById('lbCount');
   const prev=document.getElementById('lbPrev'), next=document.getElementById('lbNext');
   const DECK=[
-    {src:'img/deck-o2-08.png',cap:'Concept deck, page 8 · Option 02 concept: I am proud to be who I am'},
-    {src:'img/deck-o2-09.png',cap:'Concept deck, page 9 · The thoughts behind it: 誇れる、私。'}
+    {src:'img/deck-01.png',cap:'Concept deck, page 1 · Cover'},
+    {src:'img/deck-02.png',cap:'Concept deck, page 2 · Starting point: 思い出は、未来になる'},
+    {src:'img/deck-03.png',cap:'Concept deck, page 3 · Site and conditions'},
+    {src:'img/deck-04.png',cap:'Concept deck, page 4 · What is missing is a concept'},
+    {src:'img/deck-05.png',cap:'Concept deck, page 5 · Option 01 concept: Encounter (一期一会)'},
+    {src:'img/deck-06.png',cap:'Concept deck, page 6 · Option 01 story, autumn edition'},
+    {src:'img/deck-07.png',cap:'Concept deck, page 7 · Option 01 seasons'},
+    {src:'img/deck-08.png',cap:'Concept deck, page 8 · Option 02 concept: I am proud to be who I am'},
+    {src:'img/deck-09.png',cap:'Concept deck, page 9 · The thoughts behind it: 誇れる、私。'},
+    {src:'img/deck-10.png',cap:'Concept deck, page 10 · Option 02: seasonal greetings'},
+    {src:'img/deck-11.png',cap:'Concept deck, page 11 · Option 02 story'},
+    {src:'img/deck-12.png',cap:'Concept deck, page 12 · Option 02: why it works'},
+    {src:'img/deck-13.png',cap:'Concept deck, page 13 · Reference: three other directions'},
+    {src:'img/deck-14.png',cap:'Concept deck, page 14 · Next steps'}
   ];
   const SKIP='button,a,.compare,#photo,.sim,dialog';
   let list=[], i=0;
